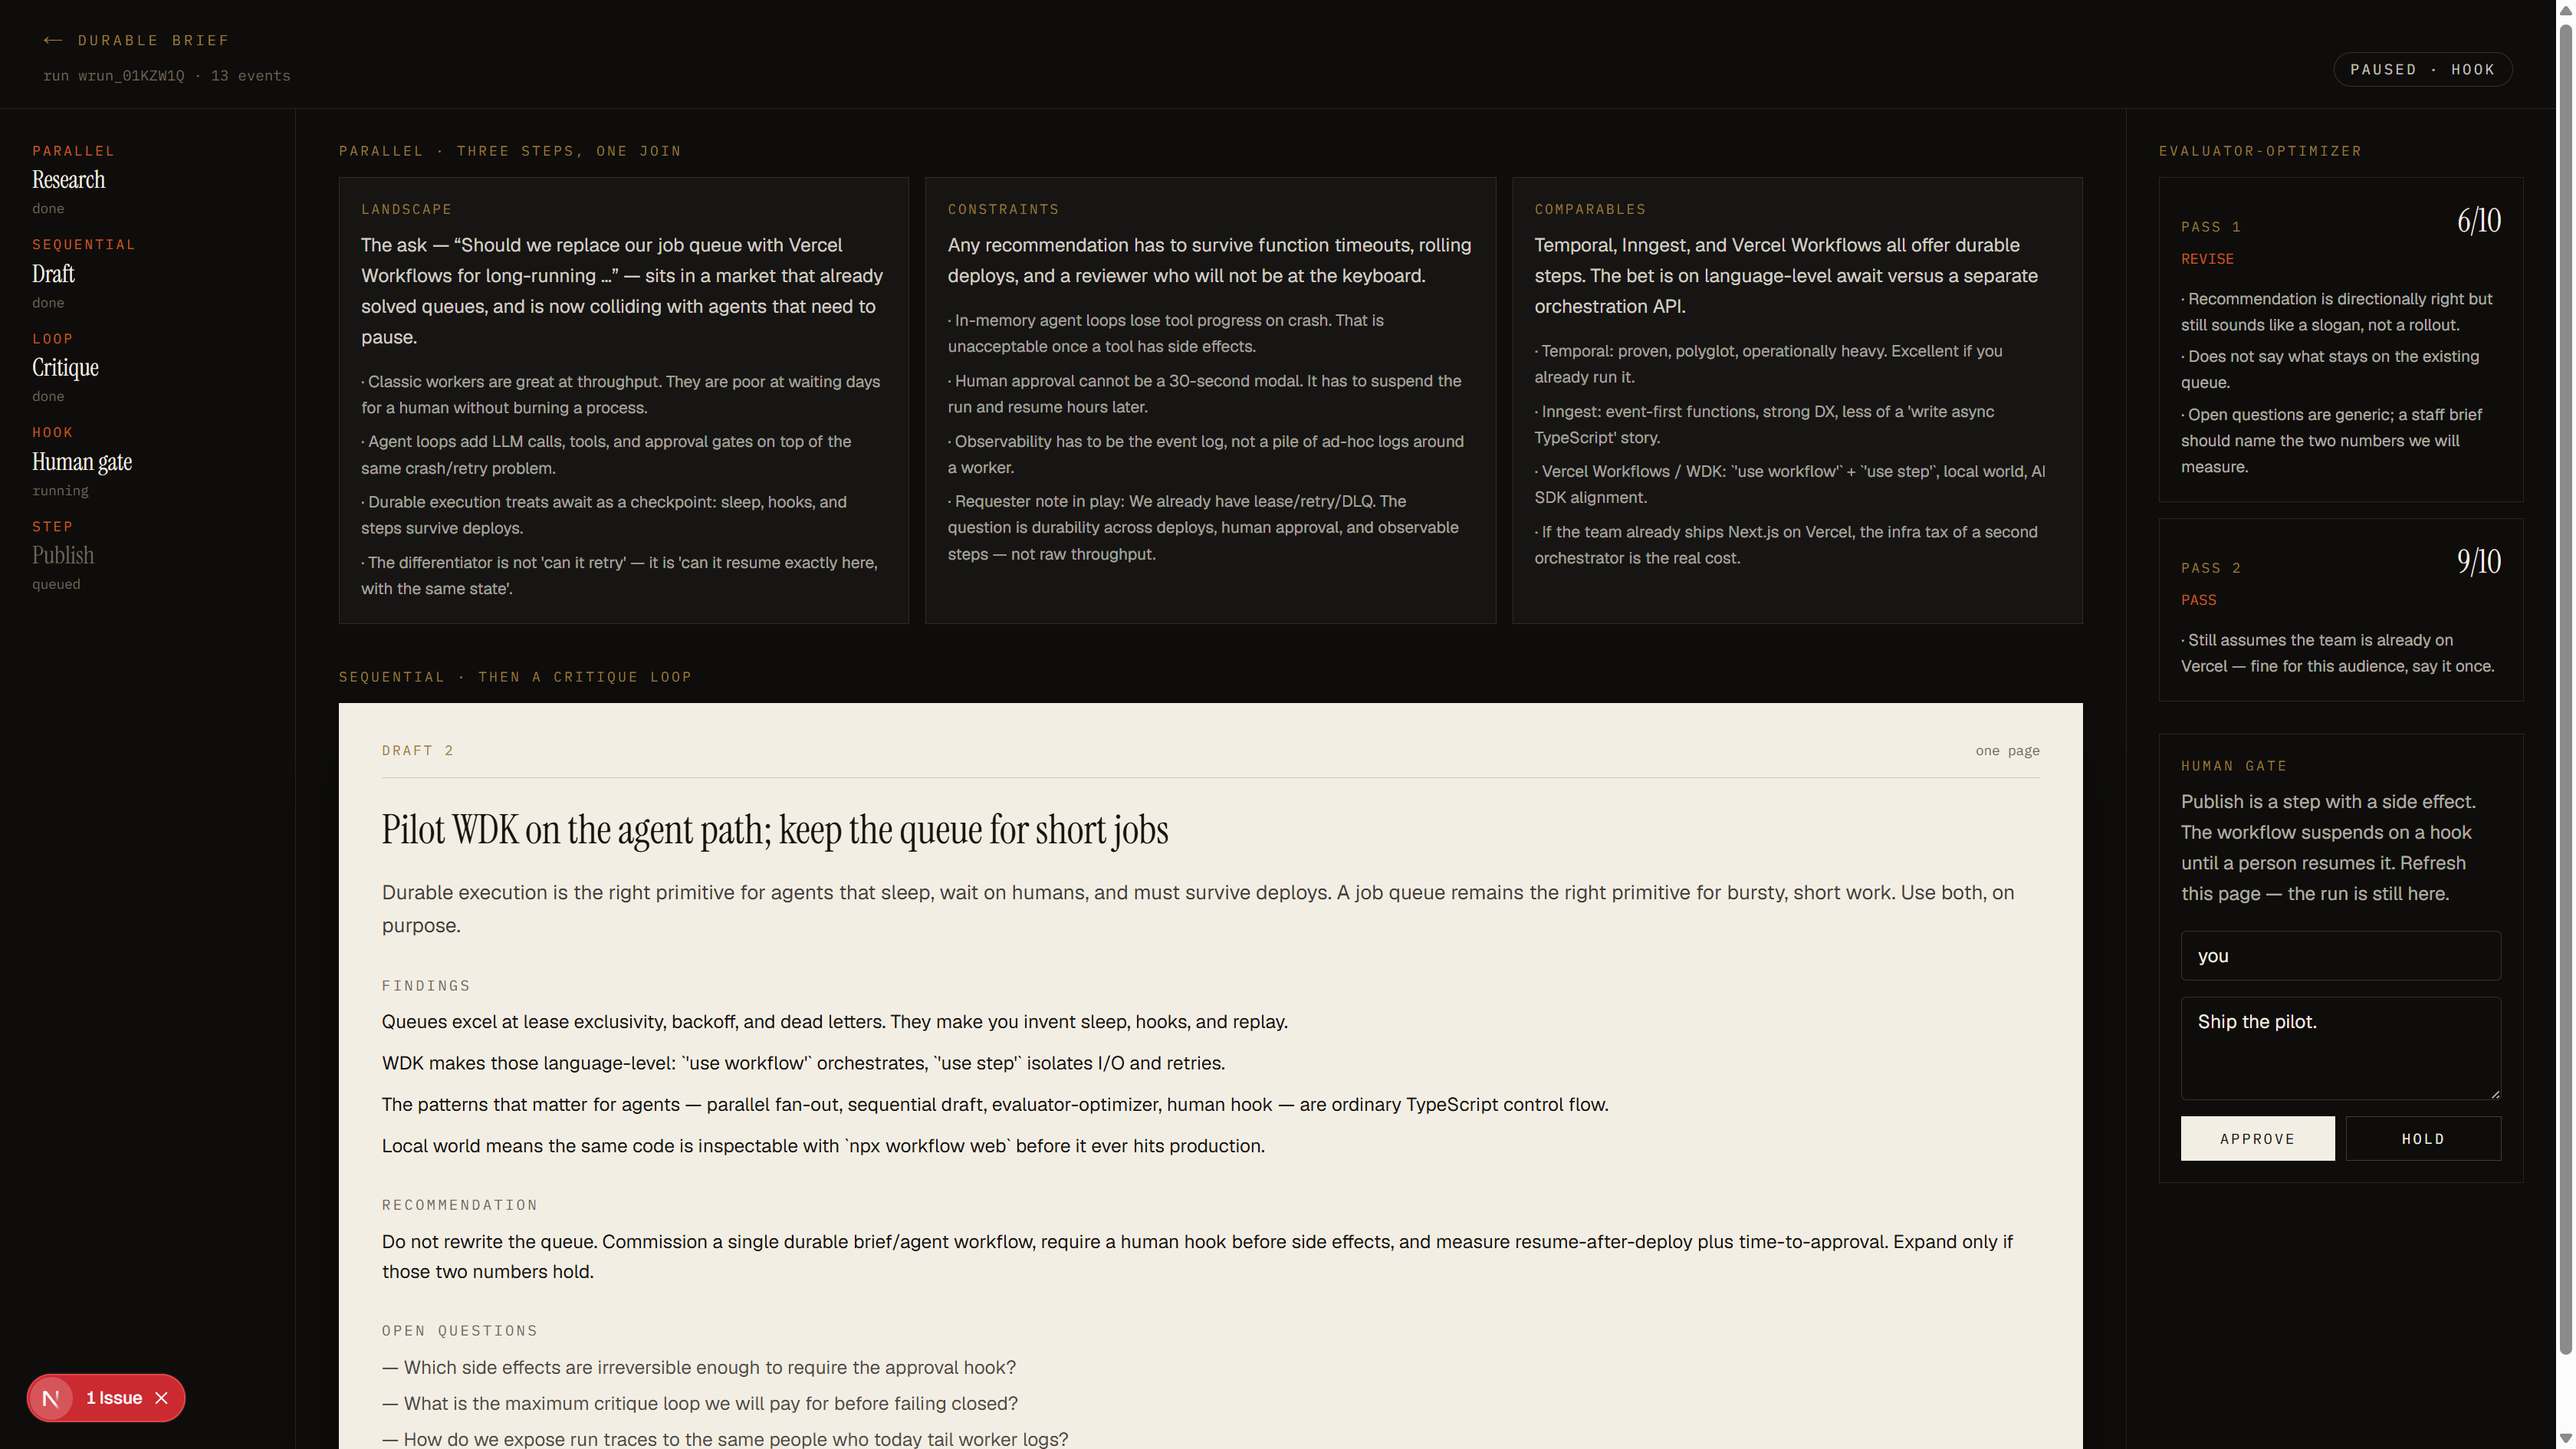
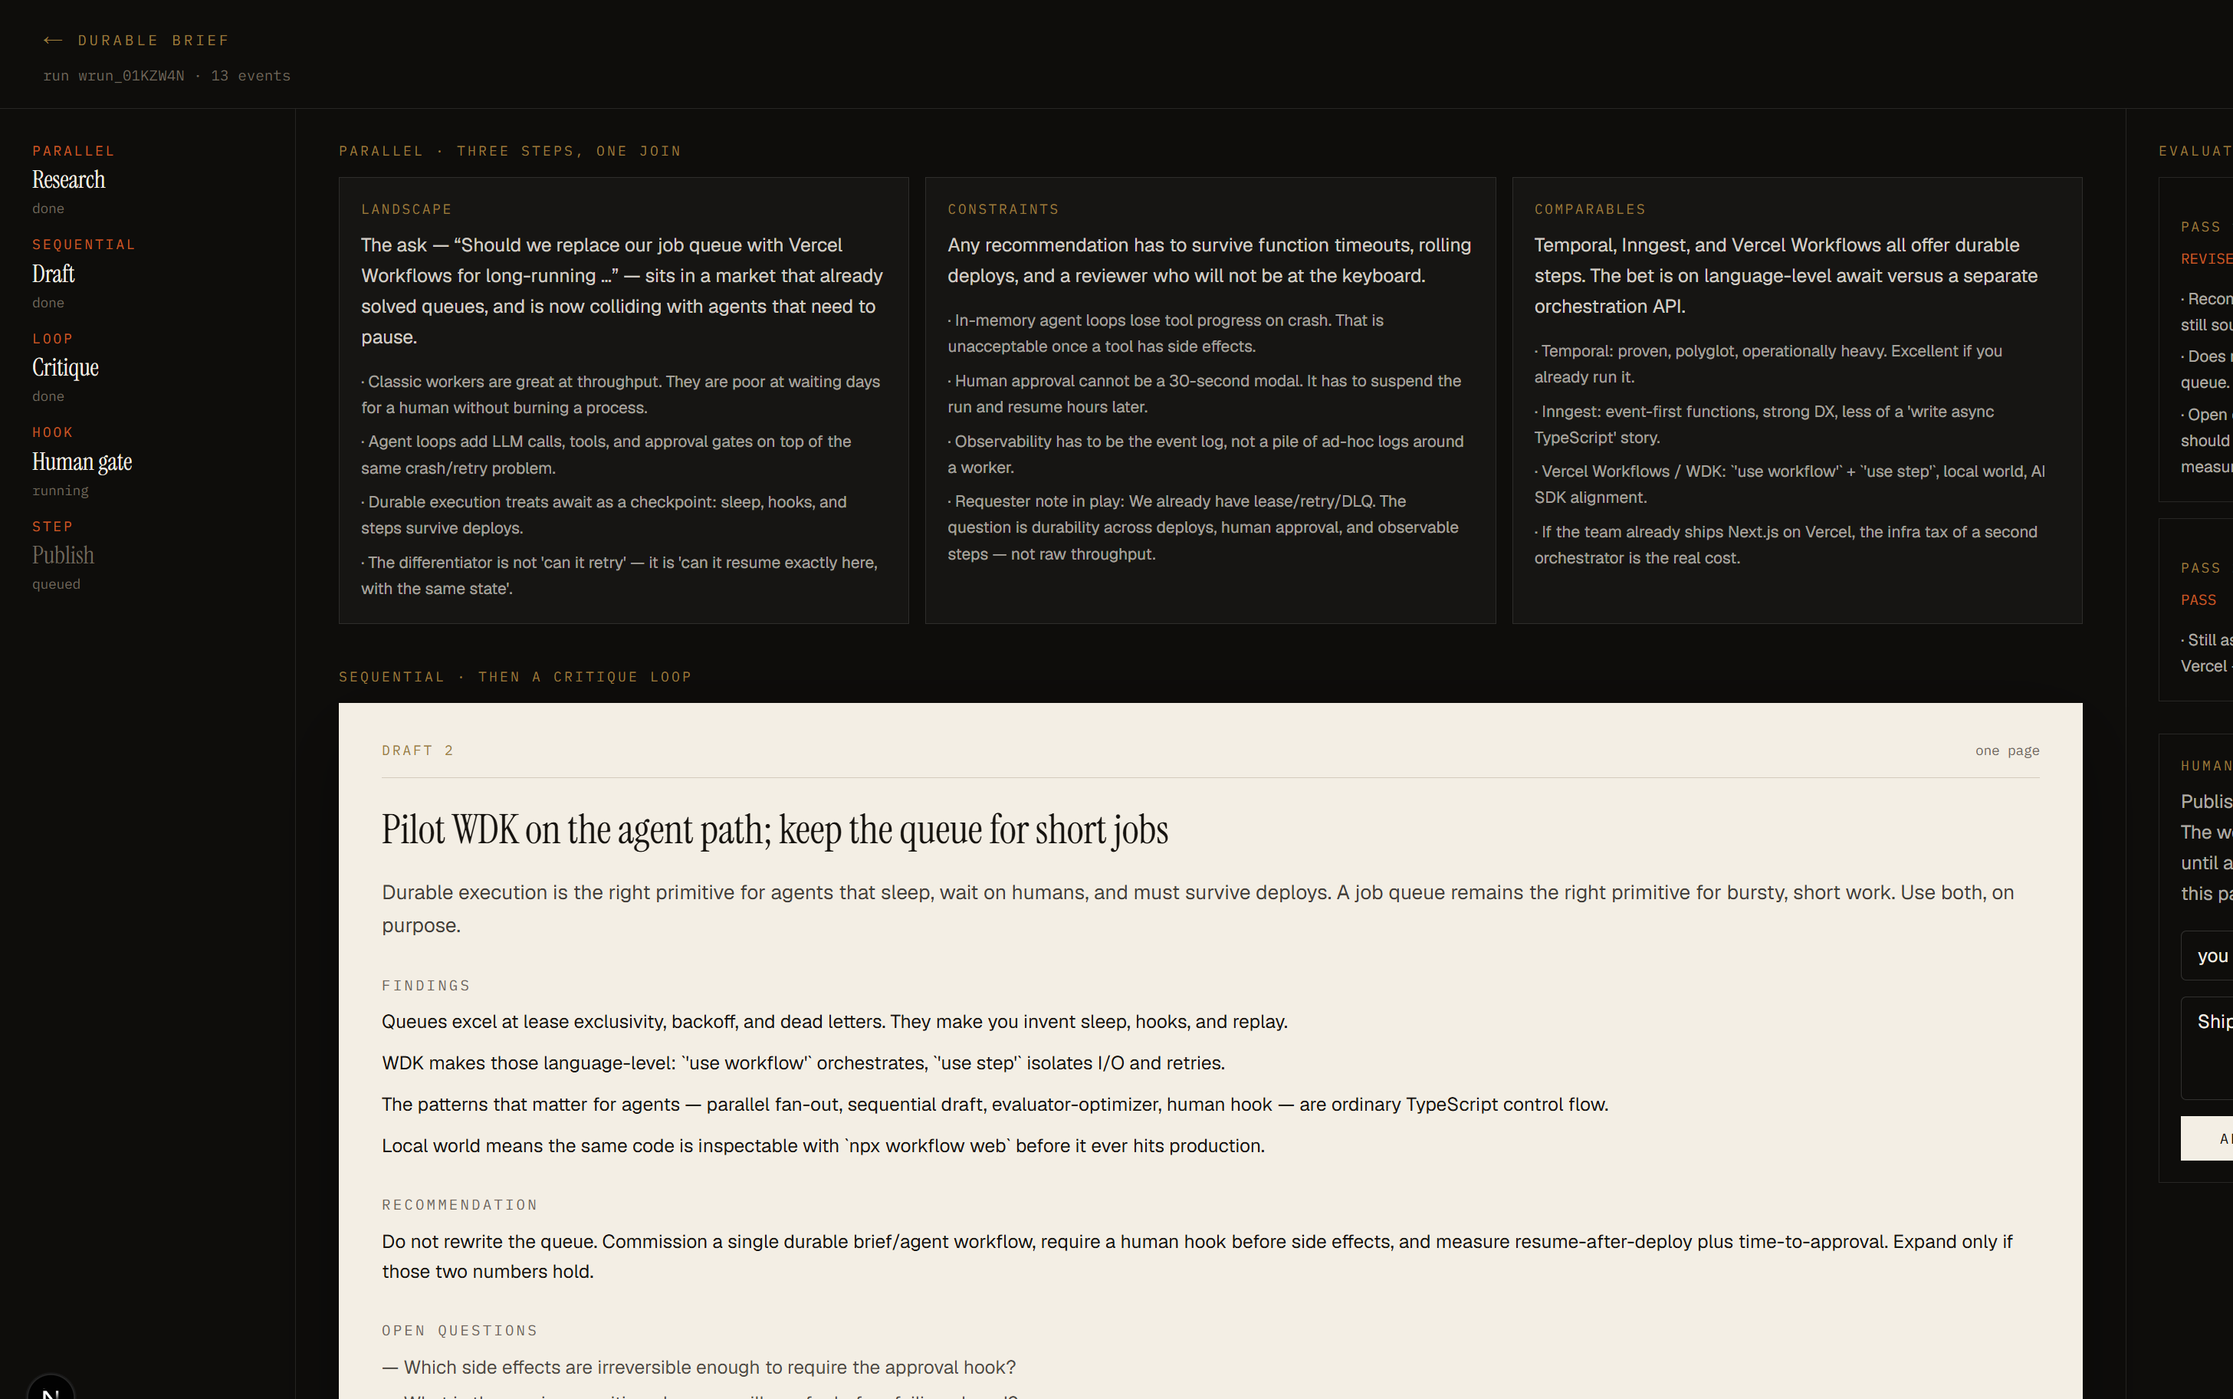
Point the README at the live Vercel demo.

diff --git a/README.md b/README.md
@@ -8,6 +8,8 @@ Built with the [Workflow SDK](https://workflow-sdk.dev) (`'use workflow'` / `'us
 
 This is the project I would put in front of the [Vercel Workflows](https://vercel.com/careers/software-engineer-workflows-5798416004) team: the patterns in the job post, written as TypeScript control flow.
 
+**Live:** [durable-brief.vercel.app](https://durable-brief.vercel.app)
+
 ![Durable Brief desk paused on the human approval hook](docs/desk.png)
 
 ## Why this exists
@@ -81,7 +83,7 @@ Set `DEMO_MODE=0` if you want to force live calls while a key is present. Defaul
 
 ## Deploy
 
-[Vercel](https://vercel.com) is the intended production world. Workflows need no extra config beyond `withWorkflow()` in `next.config.ts`. Set `OPENAI_API_KEY` or `AI_GATEWAY_API_KEY` on the project.
+Production is at [durable-brief.vercel.app](https://durable-brief.vercel.app). Workflows need no extra config beyond `withWorkflow()` in `next.config.ts`. Set `OPENAI_API_KEY` or `AI_GATEWAY_API_KEY` on the project for live models.
 
 ## License
 
